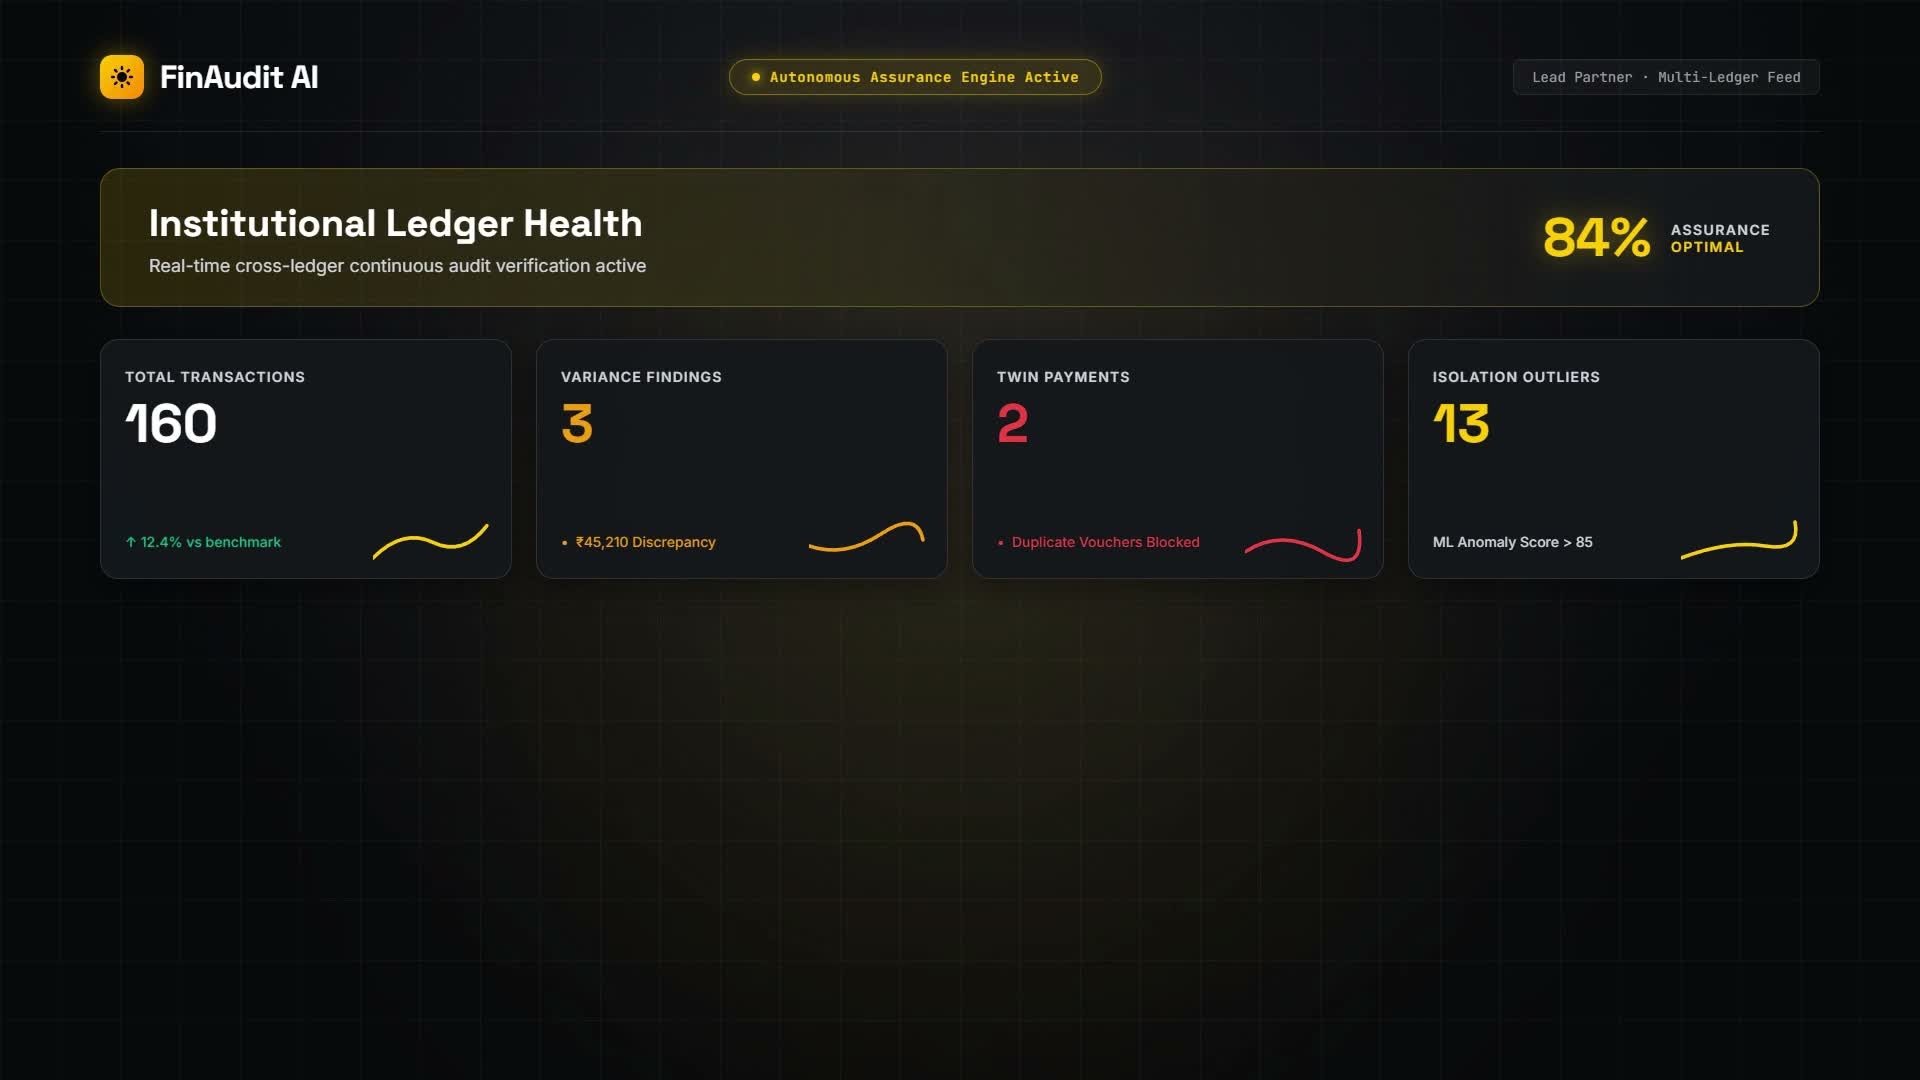
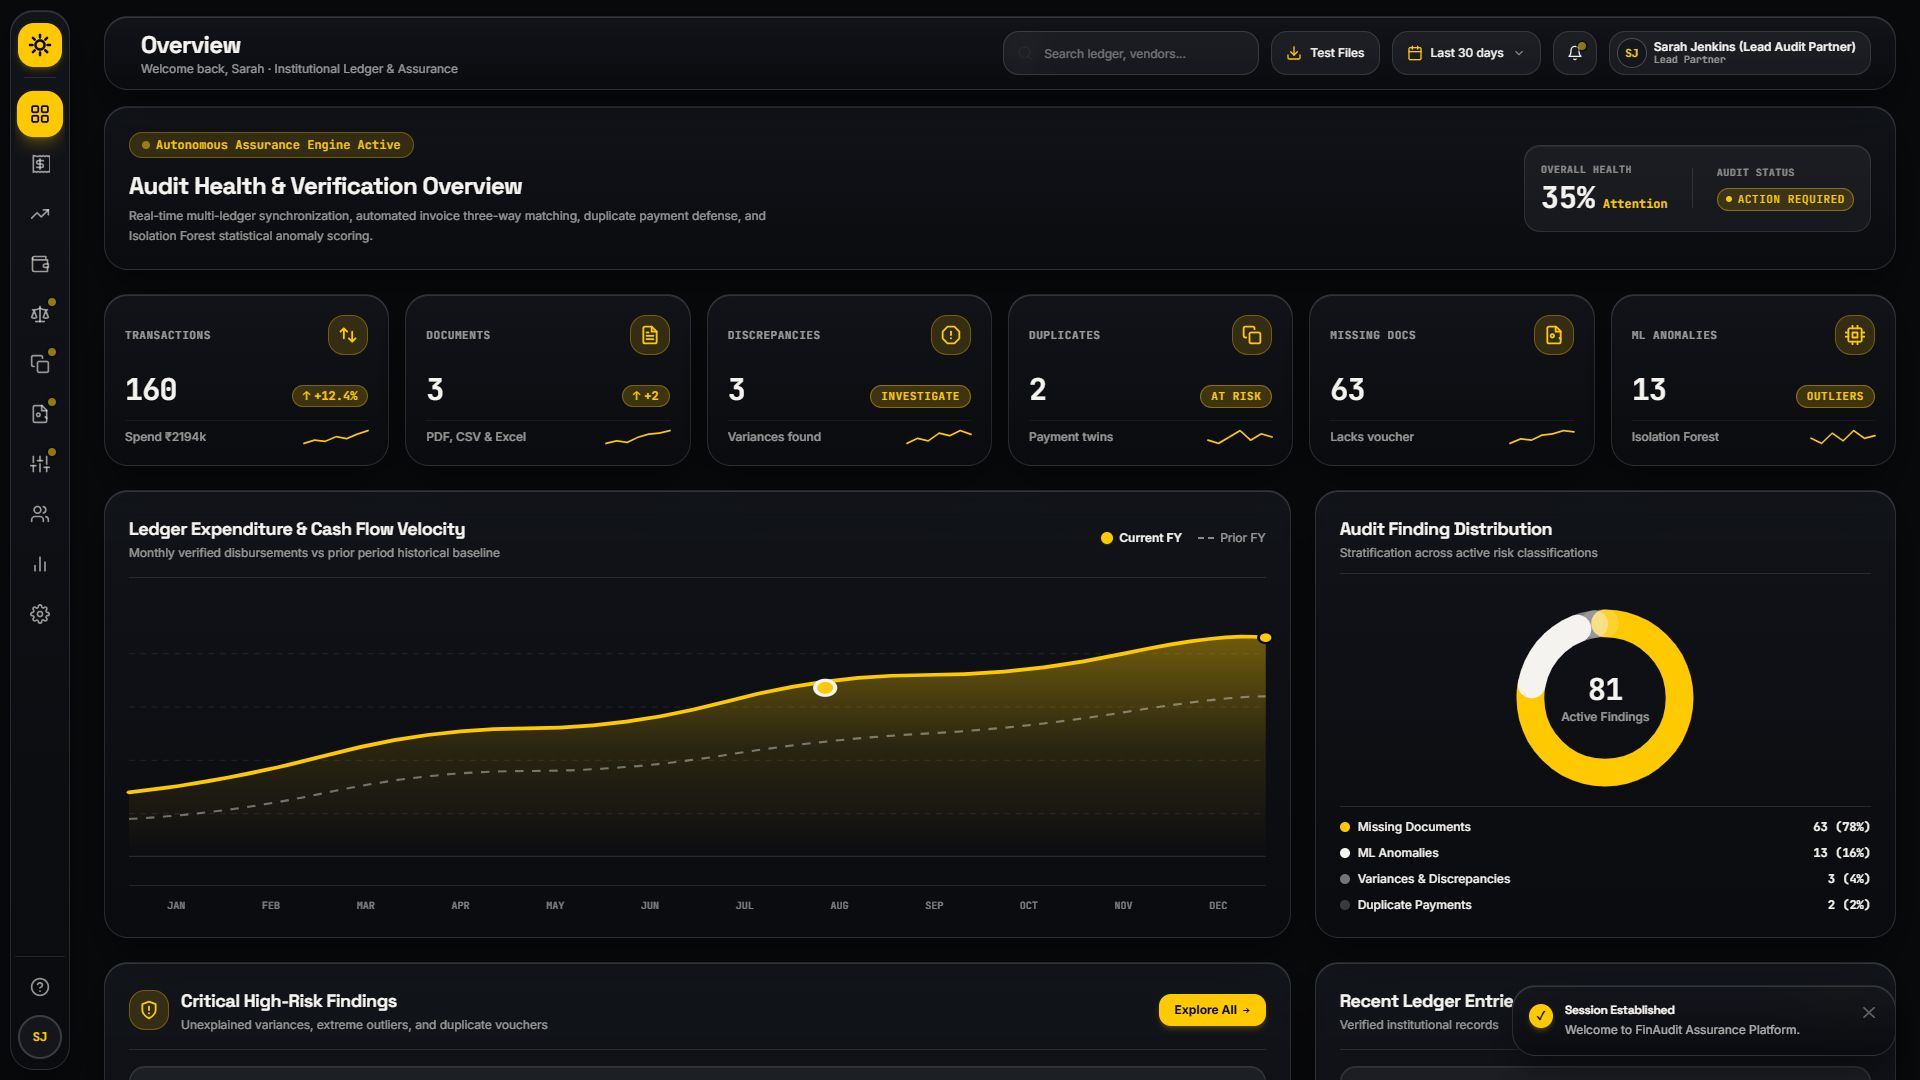
docs: replace walkthrough previews with real live application screenshots

diff --git a/README.md b/README.md
@@ -145,7 +145,7 @@ pie title Pre-Seeded Audit Benchmark Distribution (160 Records)
 |---|---|---|
 | **Executive Dashboard** | <img src="assets/dashboard-preview.jpg" alt="Executive Dashboard" width="360" /> | Real-time surveillance of transactions, variance ratios, risk queues, and ledger velocity |
 | **3-Way Reconciliation Studio** | <img src="assets/reconciliation-preview.jpg" alt="Reconciliation Studio" width="360" /> | Automated invoice-to-bank ledger matching with laser cross-checks and one-click auditor approval |
-| **Attestation & Assurance Dossier** | <img src="assets/assurance-seal-preview.jpg" alt="Assurance Dossier" width="360" /> | Continuous audit verification, statutory tax anomaly isolation, and formal audit paper sign-off |
+| **ML Anomaly & Outlier Engine** | <img src="assets/anomalies-preview.jpg" alt="Anomaly Engine" width="360" /> | Scikit-Learn Isolation Forest ensemble isolating off-cycle disbursements, velocity spikes, and high-risk outliers |
 
 ---
 
@@ -237,9 +237,9 @@ FinAudit AI includes pre-formatted financial evidence files to test the OCR engi
 FinAudit-AI/
 ├── assets/                       # High-definition demonstration assets and UI previews
 │   ├── demo.gif                  # Autoplaying product walkthrough
-│   ├── dashboard-preview.jpg     # Executive dashboard preview
-│   ├── reconciliation-preview.jpg # 3-way reconciliation studio preview
-│   └── assurance-seal-preview.jpg # Institutional assurance dossier preview
+│   ├── dashboard-preview.jpg     # Executive dashboard interface
+│   ├── reconciliation-preview.jpg # 3-way reconciliation studio interface
+│   └── anomalies-preview.jpg     # ML statistical outlier detection interface
 ├── backend/
 │   ├── app/
 │   │   ├── api/                  # REST endpoints (auth, dashboard, docs, txs, matching, anomalies...)
